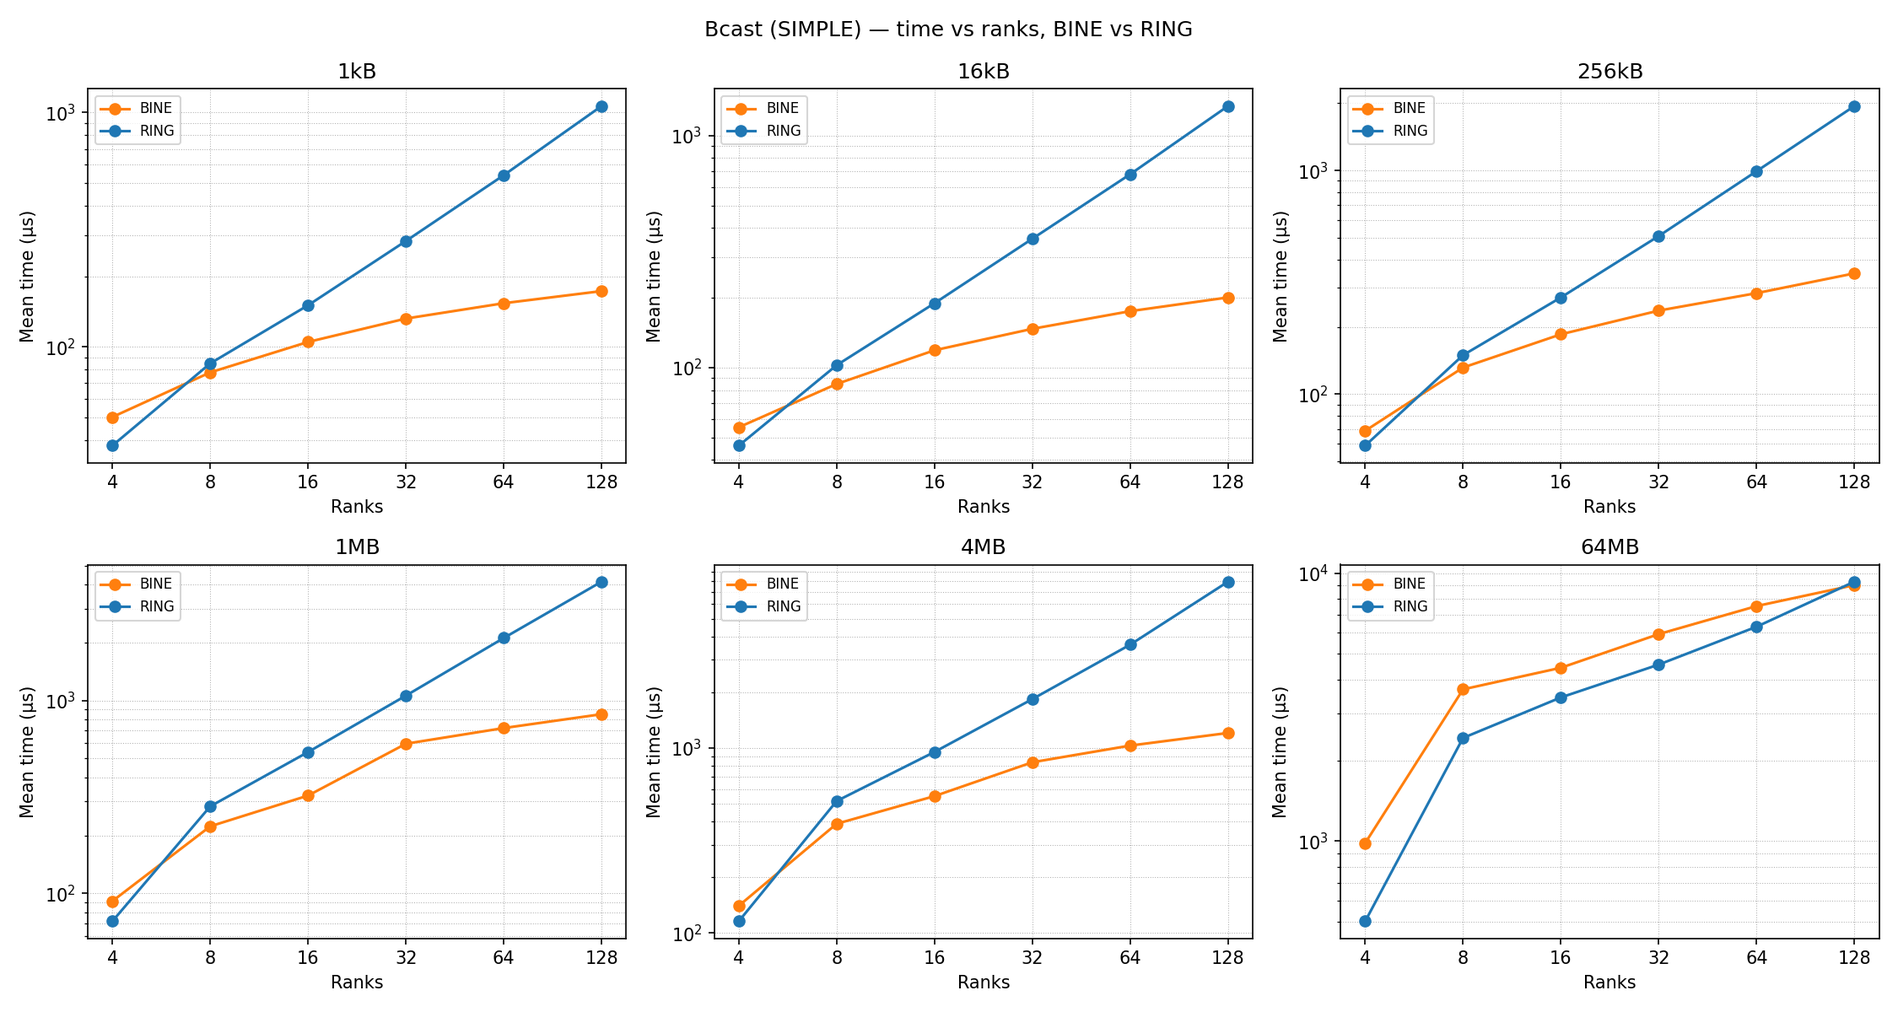
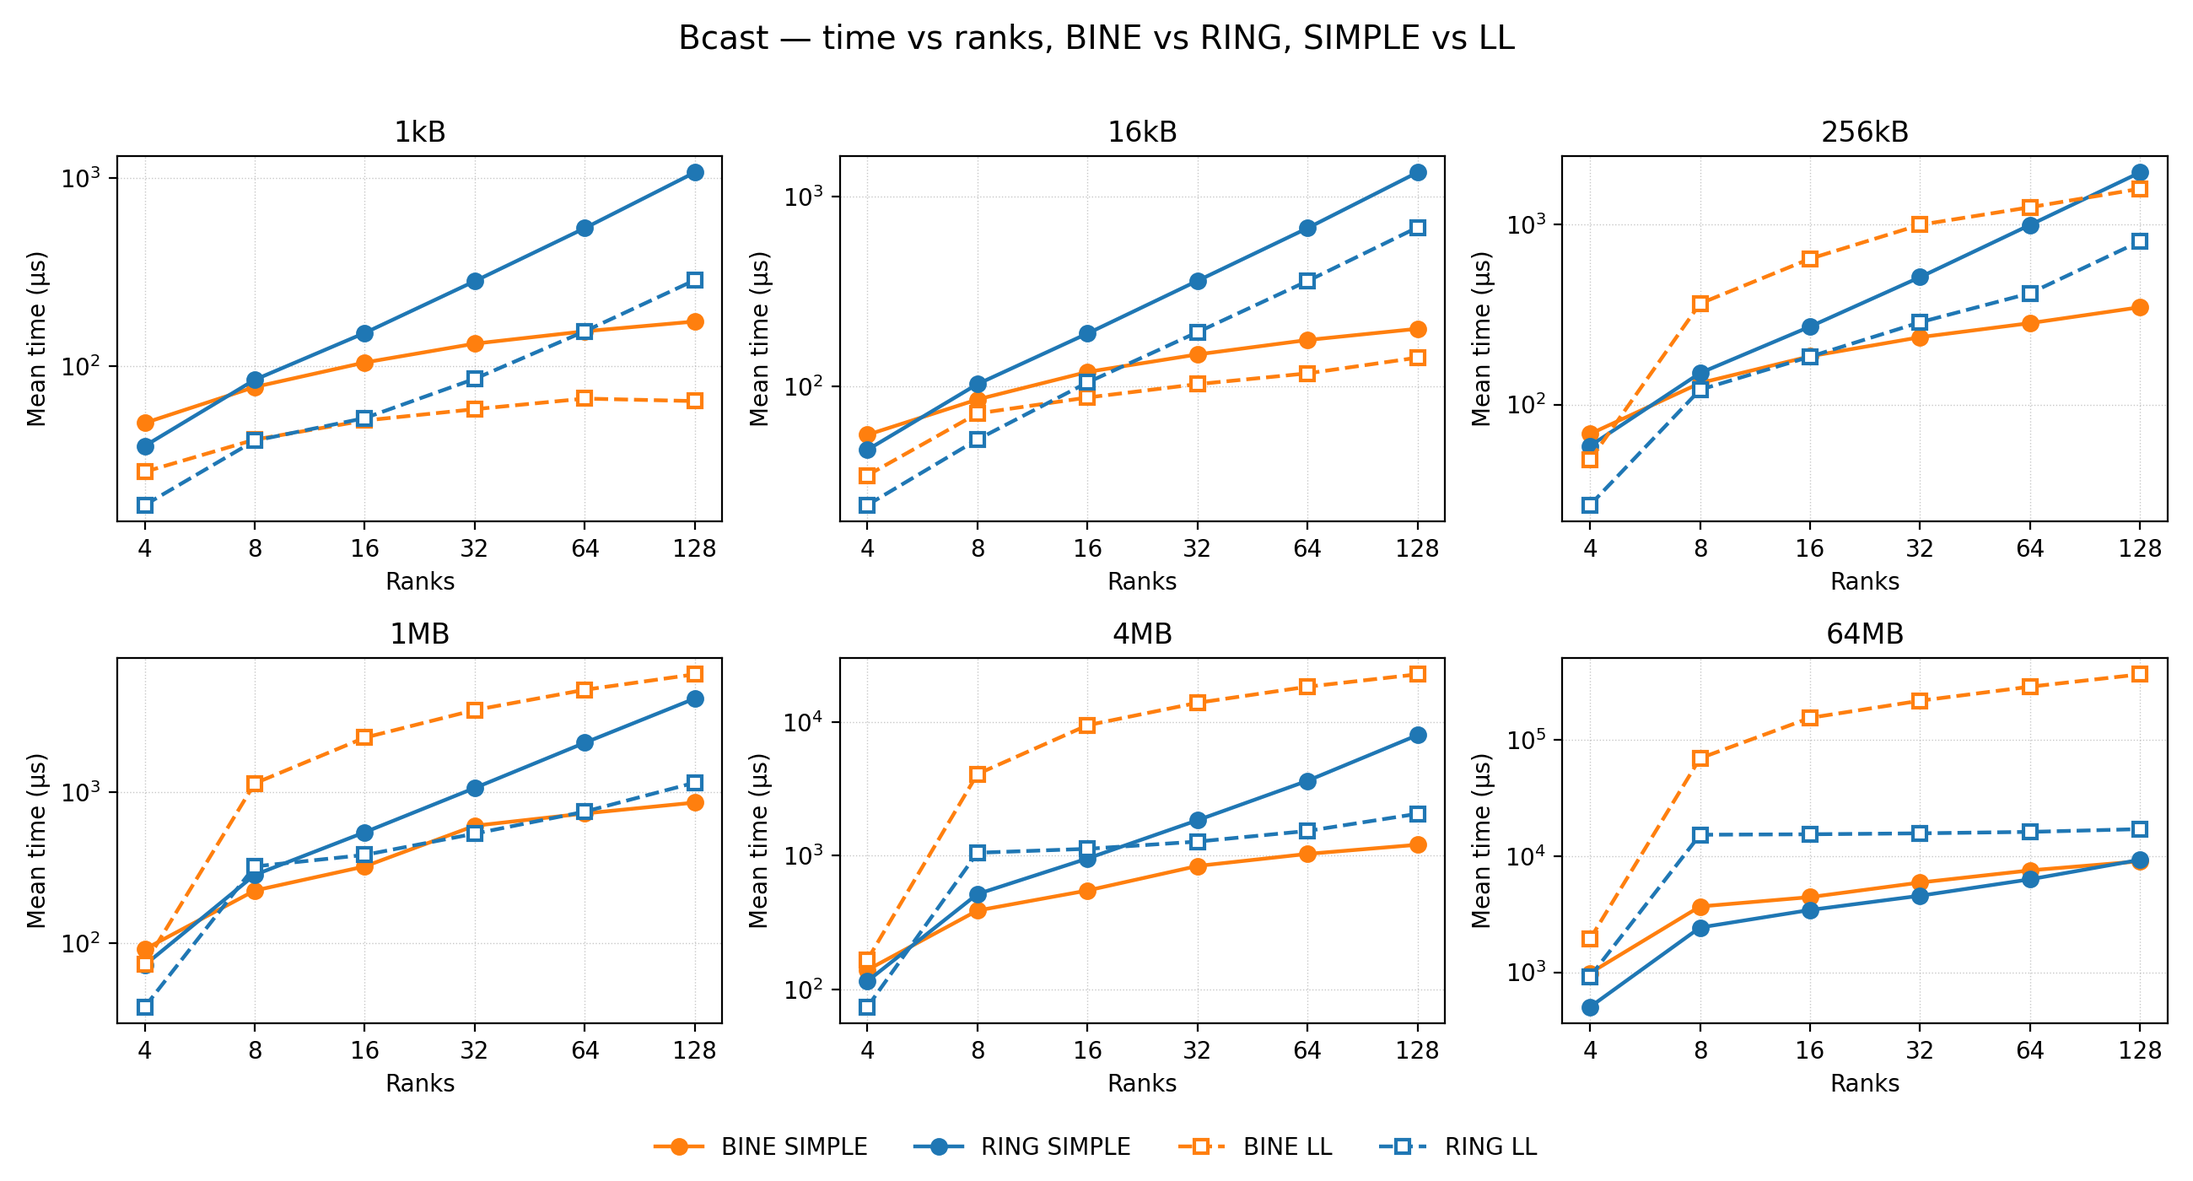
Added LL to Tree results (Ch. 4)

diff --git a/src/sections/04-tree-bine.tex b/src/sections/04-tree-bine.tex
@@ -325,74 +325,117 @@ Beyond this range, correctness relies on the arguments of this section, not on t
 The test of (\ref{inv:xor}) uses the same conversion $\rtn$ as the generator, so it checks that the tables realize the defining equation; the independent check of the construction as a whole comes from the structural invariants (\ref{inv:once})--(\ref{inv:root}).
 
 %==============================================================================
-%==============================================================================
 \section{Experimental results}\label{sec:tree-results}
 
 % Requires: graphicx
-This section compares the Bine broadcast and reduce of Sec.~\ref{sec:tree-collectives} with the native \nccl{} ring
+This section compares the Bine broadcast and reduce of Sec.~\ref{sec:tree-collectives} with the native \nccl{} ring (Chapter~\ref{ch:nccl}), under the \texttt{SIMPLE} and \texttt{LL} protocols.
+
 \paragraph{Setup.}
-Experiments run on the MeluXina supercomputer (see the acknowledgments), on GPU nodes with four NVIDIA A100 GPUs each, connected by NVLink within the node.
-We use $p\in\{4,8,16,32,64,128\}$ ranks, i.e., from one to 32 nodes with one rank per GPU, message sizes from 1\,kB to 64\,MB, and root $0$.
-Each point is the mean time over 40 iterations, after 10 warmup iterations, and the experiments were repeated several times with consistent results.
+Experiments run on the MeluXina supercomputer (see the acknowledgments), on nodes with four NVIDIA A100 GPUs connected by NVLink.
+We use $p\in\{4,8,16,32,64,128\}$ ranks (one to 32 nodes, one rank per GPU), message sizes from 1\,kB to 64\,MB, and root $0$.
+Each point is the mean over 40 iterations after 10 warmup iterations, repeated several times with consistent results; each protocol is measured separately.
 Both axes of the figures are logarithmic.
 Since a node holds four GPUs, $p=4$ is entirely intra-node, and every larger $p$ also uses the inter-node network.
+\texttt{LL128} is not measured: it relies on $128$-byte stores being delivered atomically and in order, which is only guaranteed between NVLink-connected GPUs (Sec.~\ref{sec:nccl-protocols}), so on this system it could only be used at $p=4$, a single node, and would not give a comparison across scales.
 
 \begin{figure}[H]
   \centering
   \includegraphics[width=\linewidth]{assets/plots/Bcast_SIMPLE_Ranks.png}
-  \caption{Broadcast, \texttt{SIMPLE} protocol: mean time versus number of ranks, Bine against ring, for six message sizes.}
+  \caption{Broadcast: mean time versus number of ranks, Bine (orange) against ring (blue), for six message sizes. Solid lines with filled markers: \texttt{SIMPLE} protocol; dashed lines with hollow markers: \texttt{LL} protocol.}
   \label{fig:tree-bcast}
 \end{figure}
 
 \begin{figure}[H]
   \centering
   \includegraphics[width=\linewidth]{assets/plots/Reduce_SIMPLE_Ranks.png}
-  \caption{Reduce, \texttt{SIMPLE} protocol: mean time versus number of ranks, Bine against ring, for six message sizes.}
+  \caption{Reduce: mean time versus number of ranks, Bine (orange) against ring (blue), for six message sizes. Solid lines with filled markers: \texttt{SIMPLE} protocol; dashed lines with hollow markers: \texttt{LL} protocol.}
   \label{fig:tree-reduce}
 \end{figure}
 
-\subsection{Broadcast}
+\subsection{\texttt{SIMPLE} protocol}
 
-Figure~\ref{fig:tree-bcast} shows the expected separation between $\bigO{n}$ and $\bigO{\log n}$ (Sec.~\ref{sec:tree-motivation}).
-For messages up to 4\,MB, the ring time grows almost linearly with $p$ (about $2\times$ per doubling of the ranks at large $p$), while the Bine time grows by a roughly constant increment per doubling, i.e., logarithmically.
-At $p=128$ Bine is about $5.9\times$ faster at 1\,kB, $6.5\times$ at 16\,kB, $5.5\times$ at 256\,kB, $4.8\times$ at 1\,MB and $6\times$ at 4\,MB.
+The solid lines of Figures~\ref{fig:tree-bcast} and~\ref{fig:tree-reduce} show the expected separation between $\bigO{n}$ and $\bigO{\log n}$ (Sec.~\ref{sec:tree-motivation}).
+Up to 4\,MB the ring time grows almost linearly with $p$ (about $2\times$ per doubling), while the Bine time grows by a roughly constant increment per doubling.
+At $p=128$ Bine is faster by $5.9\times$, $6.5\times$, $5.5\times$, $4.8\times$ and $6\times$ at 1\,kB, 16\,kB, 256\,kB, 1\,MB and 4\,MB in the broadcast, and by $5.3\times$, $5.7\times$, $4.9\times$ and $3.4$--$3.5\times$ at 1\,kB to 1\,MB and 4\,MB in the reduce.
 
-At $p=4$ the ring is faster for all sizes (by $20$--$30\%$ up to 4\,MB), and the crossover is between 4 and 8 ranks.
-Two effects coincide here.
-With so few ranks the tree has few steps to save, and $p=4$ is also the only configuration that stays on NVLink, while from $p=8$ on the inter-node network is involved.
-The measurements do not separate the two.
+At 64\,MB the operation is bandwidth-bound: every edge of the tree carries the whole buffer and the root forwards it $s$ times, whereas the pipelined ring moves each chunk once per link.
+Bine is therefore slower than the ring in the broadcast for $p\le64$ ($2\times$ at $p=4$, $1.2$--$1.5\times$ for $p=8$ to $64$) and on par at $p=128$.
+In the reduce it is slower at every scale ($1.8$--$3.4\times$), since the root also reduces $s$ full buffers in sequence while the ring spreads the reduction over all ranks.
+Both algorithms jump sharply between $p=4$ and $p=8$, the cost of leaving NVLink for the network.
 
-The 64\,MB case is different.
-Bine is slower than the ring for $p\le64$ (about $2\times$ at $p=4$, $1.5\times$ at $p=8$, and $1.2$--$1.3\times$ from $p=16$ to $64$), and the two are on par at $p=128$.
-Both algorithms jump sharply between $p=4$ and $p=8$ (about $5\times$ for the ring and $3.8\times$ for Bine), which is the cost of leaving NVLink for the network.
-For large messages the broadcast is bandwidth-bound: every edge of the tree carries the whole buffer, and the root forwards it $s$ times, whereas the pipelined ring moves each chunk once per link.
-The ring therefore pays a latency term that grows with $p$ but a small bandwidth term, and Bine does the opposite.
-This is consistent with the measurements, and suggests that the tree wins only when the latency term of the ring dominates.
-Part of the ring's advantage at 64\,MB is also a property of the network bandwidth rather than of the algorithm alone.
-
-\subsection{Reduce}
-
-The reduce (Figure~\ref{fig:tree-reduce}) behaves like the broadcast for small and medium messages.
-At $p=128$ Bine is about $5.3\times$ faster at 1\,kB, $5.7\times$ at 16\,kB, $4.9\times$ at 256\,kB, and $3.4$--$3.5\times$ at 1\,MB and 4\,MB.
-At $p=4$ the ring is again faster, and at $p=8$ the two are within a few percent for sizes up to 4\,MB: they coincide at 1\,kB, Bine is slightly ahead from 16\,kB to 1\,MB, and the ring is marginally ahead at 4\,MB.
-The advantage of Bine at large $p$ is smaller than for the broadcast at 1\,MB and 4\,MB.
-
-The 1\,MB curve of Bine has a feature that is not present in the other sizes.
-Its time is almost flat between $p=32$ and $p=64$ (about $580$ and $620\,\mu$s), and then rises by about $60\%$ at $p=128$.
-As a result, the speedup over the ring grows from about $1.5\times$ at $p=32$ to $2.8\times$ at $p=64$, and then to $3.4\times$ at $p=128$.
-This behavior was reproduced across repeated runs, so it is a property of the system and not measurement noise.
+The Bine reduce at 1\,MB has a feature absent at other sizes: its time is almost flat between $p=32$ and $p=64$ (about $580$ and $620\,\mu$s) and then rises by $60\%$ at $p=128$, so the speedup over the ring goes from $1.5\times$ to $2.8\times$ to $3.4\times$.
+It was reproduced across runs, so it is not noise.
 % TODO: cause not isolated yet; candidates are the mapping of ranks to nodes/switches at 128 ranks, or a change in chunking or protocol parameters selected at this size. Verify with profiling or with a different node allocation before stating one.
 We have not isolated its cause.
 
-For 64\,MB, Bine is slower than the ring at every scale: about $3.4\times$ at $p=4$, between $2.1\times$ and $2.4\times$ for $p=8$ to $64$, and still about $1.8\times$ at $p=128$, with no crossover in the measured range.
-As in the broadcast, both algorithms jump between $p=4$ and $p=8$ (about $5\times$ for the ring).
-Unlike the broadcast, a rank with several children must receive and reduce the whole buffer once per child (Sec.~\ref{sec:tree-collectives}), so the root performs $s$ full-size reductions in sequence, while the ring spreads the reduction over all ranks.
-This penalizes the tree more in the reduce than in the broadcast.
+\subsection{\texttt{LL} protocol}\label{sec:tree-ll}
+
+\texttt{LL} trades bandwidth for latency (Sec.~\ref{sec:nccl-protocols}): half of the bytes it moves are flags.
+The dashed lines of Figures~\ref{fig:tree-bcast} and~\ref{fig:tree-reduce} show that it helps both algorithms at small sizes, but degrades Bine much earlier and much more than the ring.
+
+\paragraph{Small messages.}
+Up to 16\,kB the picture is that of \texttt{SIMPLE} at lower absolute times.
+At $p=128$ Bine is $4.4\times$ (broadcast) and $3.1\times$ (reduce) faster than the ring at 1\,kB and $4.9\times$ at 16\,kB, and Bine itself is $2.6\times$ and $1.4\times$ faster than with \texttt{SIMPLE} (broadcast).
+At small $p$ the ring is still better: at $p=4$ for all sizes, and at $p=8$ at 16\,kB (by $37\%$ in the broadcast and $27\%$ in the reduce).
+
+\paragraph{Large messages.}
+Above 16\,kB Bine scales worse than the ring.
+At 64\,MB the ring is almost flat in $p$ (from 15.3 to 17.1\,ms in the broadcast between $p=8$ and $128$, about 4\,GB/s), while Bine grows from 69.6 to 367.7\,ms (from about 1.0 to 0.18\,GB/s), becoming $21.5\times$ slower in the broadcast and about $18\times$ in the reduce at $p=128$.
+This is expected.
+\texttt{LL} sustains a much lower bandwidth than \texttt{SIMPLE}, and the ring is the more bandwidth-efficient algorithm: each byte crosses each link once, while in the tree the root and the internal ranks send the buffer up to $s$ times, so the algorithm that moves more data pays more for the lower bandwidth.
+For $p\ge8$ and 64\,MB the ring is slowed down by \texttt{LL} by $1.8$--$6.3\times$ with respect to \texttt{SIMPLE}, but Bine by $15$--$41\times$.
+In addition, an intermediate rank of the ring uses the fused \texttt{directRecvCopyDirectSend} (Sec.~\ref{sec:nccl-primitives}): it receives and forwards the same data in a single pass, so every rank receives and sends at the same time and a chunk streams through the ring. In Bine, instead, a rank either receives or sends at each step (fans $\langle1,0\rangle$ and $\langle0,1\rangle$, Sec.~\ref{sec:tree-collectives}), with separate operations, so each hop of the tree is store-and-forward at the granularity of a chunk and no rank uses its receive and send directions simultaneously.
+The slowdown follows the number of steps: at $p=4$ it is $2.1\times$ in the broadcast, about $s=2$, and it grows with $p$.
+% TODO: beyond one node the slowdown (21.5x at p=128, s=7) exceeds s by about 3x. Candidates not yet isolated: per-chunk, per-step construction of a Primitives object in the chunk-outer loop of runBine, the larger number of distinct peers, hence connections, per channel (Sec.~\ref{sec:nccl-channels}), served by the proxy on the network (Sec.~\ref{sec:nccl-proxy}), and the number of channels used by Bine. Verify with profiling before stating one.
+
+\paragraph{Crossover between \texttt{LL} and \texttt{SIMPLE}.}
+As a consequence, \texttt{SIMPLE} overtakes \texttt{LL} much earlier for Bine than for the ring (Table~\ref{tab:tree-ll-cross}): between 16 and 256\,kB for every $p\ge8$ for Bine, against between 256\,kB and 1\,MB at $p=8$ and between 4 and 64\,MB for $p\ge32$ for the ring.
+The two collectives have the same crossover sizes.
+
+\begin{table}[t]
+\centering
+\small
+\caption{Largest measured message size for which \texttt{LL} is faster than \texttt{SIMPLE}; the crossover lies between this size and the next measured one (1\,kB, 16\,kB, 256\,kB, 1\,MB, 4\,MB, 64\,MB). The entries are the same for broadcast and reduce.}
+\label{tab:tree-ll-cross}
+\begin{tabular}{@{}l cccccc@{}}
+\toprule
+ & $p=4$ & $8$ & $16$ & $32$ & $64$ & $128$ \\
+\midrule
+Bine & 1\,MB & 16\,kB  & 16\,kB & 16\,kB & 16\,kB & 16\,kB \\
+Ring & 4\,MB & 256\,kB & 1\,MB  & 4\,MB  & 4\,MB  & 4\,MB  \\
+\bottomrule
+\end{tabular}
+\end{table}
+
+\paragraph{Effect on the speedup.}
+If each algorithm uses its best protocol (Table~\ref{tab:tree-best}), the advantage of Bine at medium sizes is much smaller than with \texttt{SIMPLE} alone, because the ring can use \texttt{LL} up to 4\,MB at $p=128$ and Bine cannot: at 1--4\,MB it drops from $3.4$--$6\times$ to $1.1$--$1.7\times$.
+At $p=8$ the ring with \texttt{LL} is faster or on par up to 256\,kB, by up to $37\%$ in the broadcast and $27\%$ in the reduce, and Bine keeps a small advantage only at 1\,MB and, in the broadcast, at 4\,MB.
+At 64\,MB the best protocol is \texttt{SIMPLE} for both, so nothing changes.
+
+\begin{table}[t]
+\centering
+\small
+\caption{Best protocol of each algorithm and speedup of Bine over the ring, both with their best protocol, at $p=128$. A value below $1$ means that the ring is faster.}
+\label{tab:tree-best}
+\begin{tabular}{@{}r ccc @{\qquad} ccc@{}}
+\toprule
+ & \multicolumn{3}{c}{Broadcast} & \multicolumn{3}{c}{Reduce} \\
+\cmidrule(lr){2-4}\cmidrule(l){5-7}
+Size & Bine & Ring & Speedup & Bine & Ring & Speedup \\
+\midrule
+1\,kB   & \texttt{LL}     & \texttt{LL}     & $4.4\times$ & \texttt{LL}     & \texttt{LL}     & $3.1\times$ \\
+16\,kB  & \texttt{LL}     & \texttt{LL}     & $4.9\times$ & \texttt{LL}     & \texttt{LL}     & $4.9\times$ \\
+256\,kB & \texttt{SIMPLE} & \texttt{LL}     & $2.3\times$ & \texttt{SIMPLE} & \texttt{LL}     & $2.2\times$ \\
+1\,MB   & \texttt{SIMPLE} & \texttt{LL}     & $1.4\times$ & \texttt{SIMPLE} & \texttt{LL}     & $1.1\times$ \\
+4\,MB   & \texttt{SIMPLE} & \texttt{LL}     & $1.7\times$ & \texttt{SIMPLE} & \texttt{LL}     & $1.3\times$ \\
+64\,MB  & \texttt{SIMPLE} & \texttt{SIMPLE} & $1.0\times$ & \texttt{SIMPLE} & \texttt{SIMPLE} & $0.54\times$ \\
+\bottomrule
+\end{tabular}
+\end{table}
 
 \subsection{Summary}
 
-With the \texttt{SIMPLE} protocol, the Bine tree is the better choice for small and medium messages (up to a few MB) from 8 ranks on, with speedups of $3.4\times$ to $6.5\times$ at 128 ranks, and its time scales logarithmically as designed.
-For large messages (64\,MB) the ring remains better or equal, and the reduce is the worse case.
-At $p=4$ the ring is always faster, but this configuration is entirely intra-node and is not representative of multi-node runs.
-This reference point motivates the bandwidth-optimal algorithms of the following chapters, and a selection rule based on message size and number of ranks.
-% TODO: add LL and LL128 results.
+With \texttt{SIMPLE}, Bine is the better choice for small and medium messages (up to a few MB) from 8 ranks on, with speedups of $3.4$--$6.5\times$ at 128 ranks and logarithmic scaling, while for 64\,MB the ring is better or equal, the reduce being the worse case; at $p=4$ the ring always wins, but this configuration is entirely intra-node and not representative.
+\texttt{LL} helps Bine only up to 16\,kB, where it is up to $4.9\times$ faster than the ring at 128 ranks.
+Above that the ring, being more bandwidth-efficient, keeps benefiting from \texttt{LL} up to 4\,MB while Bine must switch to \texttt{SIMPLE}, so with each algorithm at its best protocol the advantage at 1--4\,MB falls to $1.1$--$1.7\times$, and at $p=8$ it vanishes below 1\,MB.
+This motivates the bandwidth-optimal algorithms of the following chapters, and a selection rule based on message size, number of ranks and protocol, not on the algorithm alone.

diff --git a/src/sections/02-background.tex b/src/sections/02-background.tex
@@ -92,7 +92,7 @@ The costs are
   T_{\text{reduce-scatter}} &= (p-1)\,\alpha + \tfrac{p-1}{p}\,n\beta + \tfrac{p-1}{p}\,n\gamma,\\
   T_{\text{allreduce}} &= 2(p-1)\,\alpha + 2\tfrac{p-1}{p}\,n\beta + \tfrac{p-1}{p}\,n\gamma.
 \end{align}
-The bandwidth term is optimal: every rank sends and receives a number of bytes that does not grow with $p$ and that matches the lower bound for these collectives~\cite{patarasuk2009bandwidth,chan2007collective}.
+The bandwidth term is optimal: every rank sends and receives a number of bytes that does not grow with $p$ and that matches the lower bound for these collectives.
 
 \paragraph{Broadcast and reduce.}
 The ring can also be used for the broadcast and the reduce by pipelining.
@@ -334,15 +334,6 @@ For $p=8$ (Table~\ref{tab:bg-bine-p8}), rank $3$ ($111$) receives at step $0$ fr
 The resulting edges are those of Fig.~\ref{fig:bg-bine-circle}.
 The implementation of this computation in \nccl{} is described in Sec.~\ref{sec:tree-impl}.
 
-\paragraph{Correctness.}
-The schedule above is a spanning tree.
-The path from the root to a rank $r$ is a sequence of steps $i_1<i_2<\dots<i_h$, and the representation $\rtn(r)$ is the XOR of the corresponding masks $M_{i_1}\oplus\dots\oplus M_{i_h}$.
-Any $s$-bit string can be written in exactly one way as the XOR of a subset of $\{1,\,11,\,111,\dots,\,1\cdots1\}$, since the masks are linearly independent over $\mathbb{F}_2$: each has a different most significant set bit.
-Hence every rank is reached through exactly one path.
-For example, in the tree of Fig.~\ref{fig:bg-bine-circle}, rank $4$ ($100$) is reached through the path $0\to3\to4$, corresponding to $000\oplus111\oplus011=100$.
-The same representation gives the descendants of a rank: all the descendants of a rank reached at step $i$ share its $i+1$ most significant bits, because the following steps only change the less significant ones.
-In the Bine ordering (i.e., read on the circle, wrapping around at $p$), the descendants of a rank are therefore contiguous, which is the property the scatter and the gather need to send a single range of blocks~\cite{desensi2025bine}.
-
 \paragraph{Arbitrary root.}
 For a root $t\neq0$, the schedule is obtained by rotating the one of root $0$: each rank identifier $r$ is replaced by $(r-t)\bmod p$.
 The rotation is a relabeling, so it does not change the structure of the tree or the distances between the communicating ranks (Sec.~\ref{sec:tree-root}).
@@ -384,13 +375,6 @@ Ratio & 1.00 & 0.50 & 0.75 & 0.63 & 0.69 & 0.66 \\
 \end{tabular}
 \end{table}
 
-\paragraph{Reduction of the global traffic.}
-The exact reduction in the traffic on the slow links depends on the topology and on how the ranks are allocated to the groups, so only an upper bound can be given.
-Consider a step $i$ and the worst case for the binomial tree, in which the size of a group equals $\delta_{\text{binomial}}(i)$, so that all the communications of that step cross the group boundaries.
-In the Bine tree only the fraction $\delta_{\text{bine}}(i)/\delta_{\text{binomial}}(i)=2/3$ of them does, so the global traffic is reduced by at most $33\%$ (Eq.~\eqref{eq:bg-distance-ratio}).
-The authors of~\cite{desensi2025bine} validated this bound on the allocations of real jobs, using one week of data from Leonardo (1,116 jobs) and two weeks from LUMI (1,914 jobs): no job exceeded the bound, the reduction increases with the number of nodes, since larger jobs span more groups, and in a few cases on fewer than $64$ nodes the Bine tree increases the traffic, because it minimizes the distance modulo $p$ rather than the actual one.
-In the same work, the Bine algorithms reduce the global-link traffic by up to $33\%$ and obtain speedups of up to $5\times$ over the state of the art on four supercomputers with different topologies.
-
 \paragraph{Number of ranks not a power of two.}
 For $p$ even, the construction can be used as is, but some ranks may be reached twice, which would break correctness (e.g., a contribution would be reduced twice).
 In that case, one of the two subtrees rooted at the rank that is reached twice is removed, namely the one reached later, which is always the smaller one.
@@ -399,6 +383,4 @@ The implementation of this thesis is limited to powers of two (Chapter~\ref{ch:t
 
 %------------------------------------------------------------------------------
 \subsection{Bine butterflies}\label{sec:bg-bine-butterfly}
-
-%==============================================================================
-\section{Related work}\label{sec:bg-related}
+\todo{Afer Butterfly implementation (ch. 05)}
